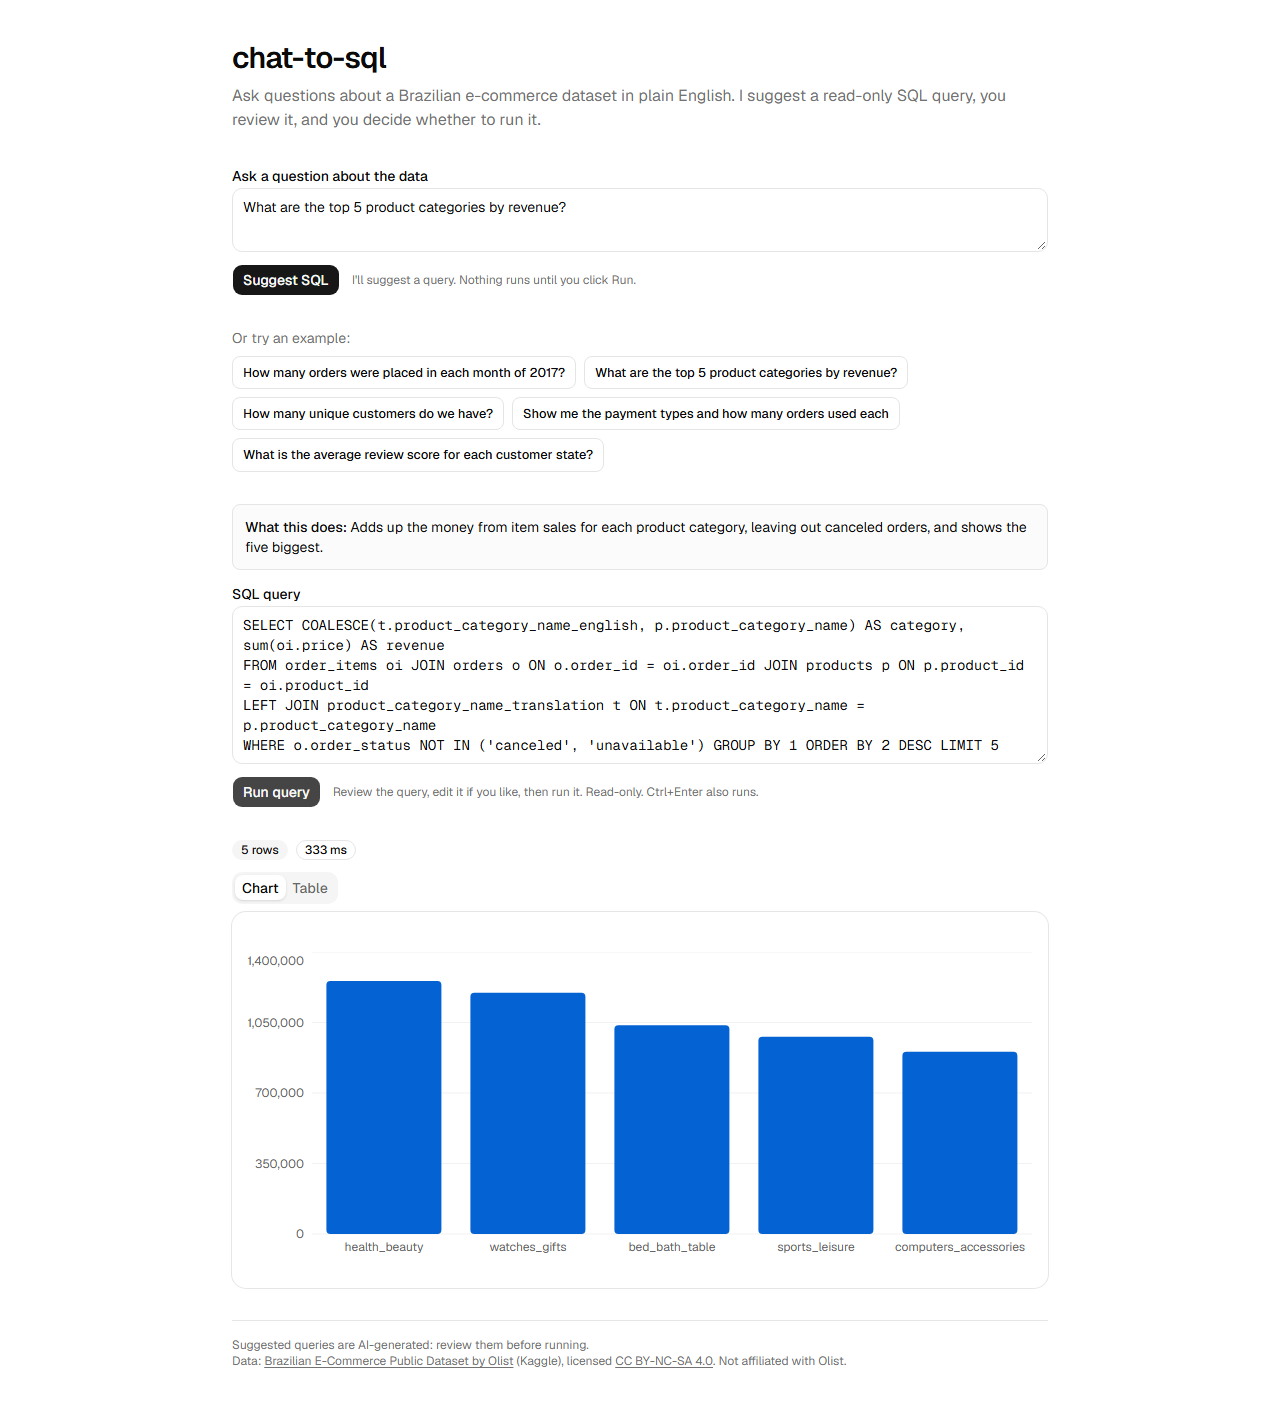
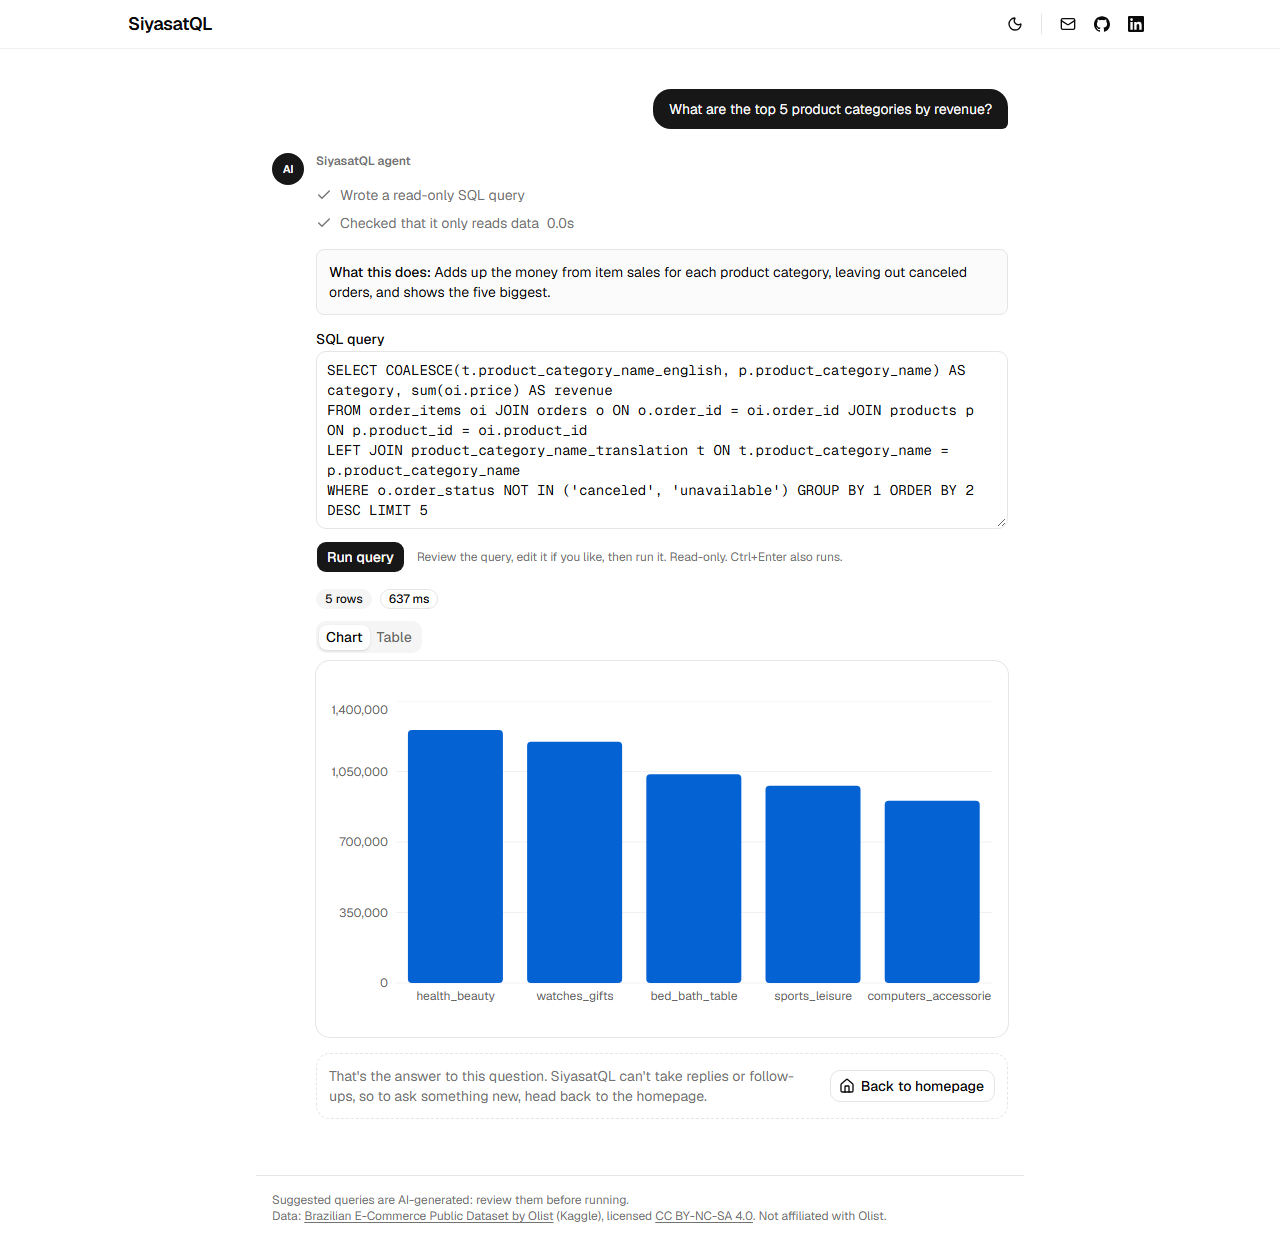
docs: regenerate screenshots, update README and CLAUDE.md for the redesign (T21)
Screenshots are retaken from the real app (real database, stubbed model).
The README now describes the landing and chat views, notes that screenshots
show a 0.0s timer because the model is stubbed, and has corrected test
counts. CLAUDE.md records the phase 8 status and the gotchas found: shadcn
defaults that fail contrast, the header tab stops, brand icons, theme script.

Claude-Session: https://claude.ai/code/session_01CnUdef7SwcYF3jZvKH5c7Y

diff --git a/CLAUDE.md b/CLAUDE.md
@@ -8,8 +8,9 @@ Source of truth, in order: `docs/intent/chat-to-sql.md` (what and why), `SPEC.md
 - **All tasks T1 to T15 done and verified.** Live at https://chat-to-sql.vercel.app/ (Vercel auto-deploys from `main`; repo `romulojr-dev/chat-to-sql`).
 - **Eval is complete** (`docs/eval-results.md`): 60 questions in `evals/questions.ts` (30% held out), 14 safety prompts in `evals/negatives.ts`. Prompt v1 is frozen as the baseline (hash pinned in a test); v2 is the production default. Haiku 5.5 averaged 92.8% (v1) and 96.7% (v2) over 3 runs each; the gap is suggestive, not proven (ranges overlap). Sonnet 5.5 with v2 averaged 99.4% but costs about 17x more, so Haiku 5.5 + v2 stays the production default. Never claim numbers beyond what `docs/eval-results.md` says.
 - **The project is complete.** Remaining work is optional polish and the ideas listed under "Limitations and next steps" in README.md.
+- **Phase 8 (T16 to T21): the UI was redesigned and renamed SiyasatQL** on branch `feat/siyasatql-ui` (repo and live URL keep the name `chat-to-sql`). Landing view = centered prompt box + examples + About section peeking at the fold; chat view = one question, no reply box, shadcn `Trace` of the two real steps in `/api/suggest` (model writes SQL, server checks read-only), "Back to homepage" after Run or an error. Dark mode with saved choice (`lib/theme.ts`). No backend, API or eval changes. Check `tasks/todo.md` for whether it is merged.
 - Eval commands: `npm run eval:check` (verify references), `npm run eval -- --prompt v1|v2 --label <name>` (one run, about $0.03; calls the LLM), `npm run eval:summary -- v1 v2` (compare groups named `<prefix>-run1..n`).
-- E2E: `npm run test:e2e` (Playwright on the production build, model and DB stubbed; builds first). `E2E_LIVE=1` also runs a test against the real DB; `E2E_SCREENSHOTS=1 npx playwright test e2e/screenshots.spec.ts` regenerates `docs/screenshots/` with real data. axe-core checks 5 page states against WCAG 2.1 A/AA with zero violations required.
+- E2E: `npm run test:e2e` (Playwright on the production build, model and DB stubbed; builds first). `E2E_LIVE=1` also runs a test against the real DB; `E2E_SCREENSHOTS=1 npx playwright test e2e/screenshots.spec.ts` regenerates `docs/screenshots/` with real data. axe-core checks 7 page states in both light and dark themes against WCAG 2.1 A/AA with zero violations required (emulate the theme with `page.emulateMedia({ colorScheme })`).
 
 ## Commands
 `npm run dev | build | lint | typecheck | test` (Vitest; integration tests use the real Neon DB through `.env.local` and skip themselves without `DATABASE_URL`). `npm run db:seed` (reload dataset, idempotent), `npm run db:role` (recreate read-only role), `npm run limits:check` (Upstash smoke test). Before every commit: lint, typecheck, test, and build all pass.
@@ -23,6 +24,9 @@ Source of truth, in order: `docs/intent/chat-to-sql.md` (what and why), `SPEC.md
 
 ## Gotchas learned the hard way
 - **Look at the real rendering.** automated WCAG checks passed while the page rendered in the browser default serif (a self-referencing `--font-sans` from shadcn init) with a 1.5:1 contrast chart. Both now have Playwright regression tests (`e2e/a11y.spec.ts`).
+- **shadcn defaults can fail contrast.** The Trace component fades pending lines to 60% opacity and timing text to 70%, and the light `--destructive` was 4.49:1; all were caught only by running axe on the *working* and *error* states in both themes. Override with `!` utilities (e.g. `opacity-100!`) or adjust the token, and keep those states in `e2e/a11y.spec.ts`.
+- The header is first in the DOM, so the keyboard tests expect four header stops (theme, Email, GitHub, LinkedIn) before the prompt box. lucide-react v1 has no brand icons; `components/BrandIcons.tsx` inlines GitHub and LinkedIn.
+- Theme: an inline script in `<head>` sets the `dark` class before paint (Next guide `preventing-flash-before-hydration.md`); `ThemeToggle` re-applies it in a layout effect for dev Strict Mode. The About numbers live in `lib/schema/facts.ts` and a unit test ties them to `SCHEMA_DESCRIPTION`.
 - Playwright: wait for `networkidle` after `goto` (clicks before hydration do nothing); Next renders its own `role="alert"` route announcer, so select the app's alerts with `[data-slot="alert"]`. The tabs component is Base UI with manual activation (arrows move focus, Enter/Space selects).
 - **Eval comparison:** never use greedy "first match" when pairing values within a tolerance; it strands values (this under-scored a correct answer once). `evals/compare.ts` uses sorted pairing for columns and exact bipartite matching for rows. A full eval run calls the LLM (about $0.02 on Haiku).
 - **`.env.local` has CRLF line endings.** An empty `KEY=` looks non-empty to naive shell checks. Strip `\r` (`tr -d '\r'`) when testing values. Never print secret values; check length and prefix only.

diff --git a/tasks/todo.md b/tasks/todo.md
@@ -133,7 +133,7 @@ Design approved from mockups: minimal landing (centered prompt box, examples, Ab
 - [x] **T16: Trace component + dark mode foundation** (S)
   - Acceptance: shadcn `trace` installed; light/dark theme with saved choice that respects system setting, no flash on load; text, chart and focus contrast pass in both themes
   - Verify: lint, typecheck, test, build; axe in both themes
-  - Status: Trace installed; `lib/theme.ts` (unit-tested, including blocked storage), inline head script, `ThemeToggle`. The toggle is not mounted yet (T18), so the axe/contrast check in both themes and the no-flash check are done in T21 against the real page.
+  - Status: Trace installed; `lib/theme.ts` (unit-tested, including blocked storage), inline head script, `ThemeToggle`. The toggle is not mounted yet (T18), so the axe/contrast check in both themes and the no-flash check were done in T21 against the real page (both pass; see e2e/a11y.spec.ts and e2e/header.spec.ts).
 - [x] **T17: Rename to SiyasatQL** (XS)
   - Acceptance: page title, metadata, header, README, e2e text say SiyasatQL
 - [x] **T18: Header** (S)
@@ -142,5 +142,6 @@ Design approved from mockups: minimal landing (centered prompt box, examples, Ab
   - Acceptance: heading "What do you want to analyze?", centered prompt box, examples under it, whitespace, About section visibly peeking at the fold on common screens
 - [x] **T20: Chat view** (M)
   - Acceptance: question bubble, Trace showing only real steps (expanded by default), explanation, editable SQL, Run (never automatic), results; after Run: note that replies are not possible plus "Back to homepage"; going home aborts in-flight requests and clears state; no reply box
-- [ ] **T21: Tests, screenshots, docs** (S)
+- [x] **T21: Tests, screenshots, docs** (S)
   - Acceptance: e2e and axe updated (both themes, 5+ states); screenshots regenerated; README and CLAUDE.md updated
+  - Status: 53 e2e tests pass (3 opt-in skipped); axe runs 7 states x 2 themes with zero violations after fixing three real contrast failures (Trace pending/timing text, light destructive color). Screenshots regenerated with the real database. Not yet done: merge to `main` and deploy (asks first), and a human look at the live site.

diff --git a/README.md b/README.md
@@ -10,6 +10,10 @@ Ask a question about a data set in plain English. The app suggests a read-only S
 |---|---|
 | ![Top product categories by revenue, shown as a bar chart on desktop](docs/screenshots/desktop-revenue-bar-chart.png) | ![Orders per month in 2017, shown as a line chart on a phone](docs/screenshots/phone-orders-line-chart.png) |
 
+*(The screenshots use the real database with the model stubbed, so the agent's step timer reads 0.0s; on the live site it shows the real time of the model call.)*
+
+The page opens on a minimal prompt box ("What do you want to analyze?") with a short description of the data below it. Sending a question switches to a one-question agent chat: the agent's steps (shown with the shadcn Trace component, only steps that really happen), the editable SQL, **Run**, then the results. There are no replies or follow-ups, so a "Back to homepage" button starts over. A dark mode toggle is in the header.
+
 It runs on a public e-commerce data set (about 100,000 orders from the [Olist Brazilian E-Commerce Public Dataset](https://www.kaggle.com/datasets/olistbr/brazilian-ecommerce)) and is built for people who cannot write SQL but want a feel for the data.
 
 ## What this project demonstrates
@@ -113,9 +117,9 @@ npm run dev                       # http://localhost:3000
 ### Tests and eval
 
 ```bash
-npm test                  # 367 unit and integration tests (some use the real database and skip without one)
-npm run test:e2e          # 21 Playwright tests on the production build, model and database stubbed,
-                          # including axe-core WCAG 2.1 A/AA checks in five page states
+npm test                  # 379 unit and integration tests (some use the real database and skip without one)
+npm run test:e2e          # 53 Playwright tests on the production build, model and database stubbed,
+                          # including axe-core WCAG 2.1 A/AA checks in seven page states, in light and dark
 npm run eval:check        # runs every reference query against the database
 npm run eval -- --label my-run                # one full eval run (about 74 model calls, about $0.03)
 npm run eval:summary -- v1 v2 sonnet-v2       # compare runs
